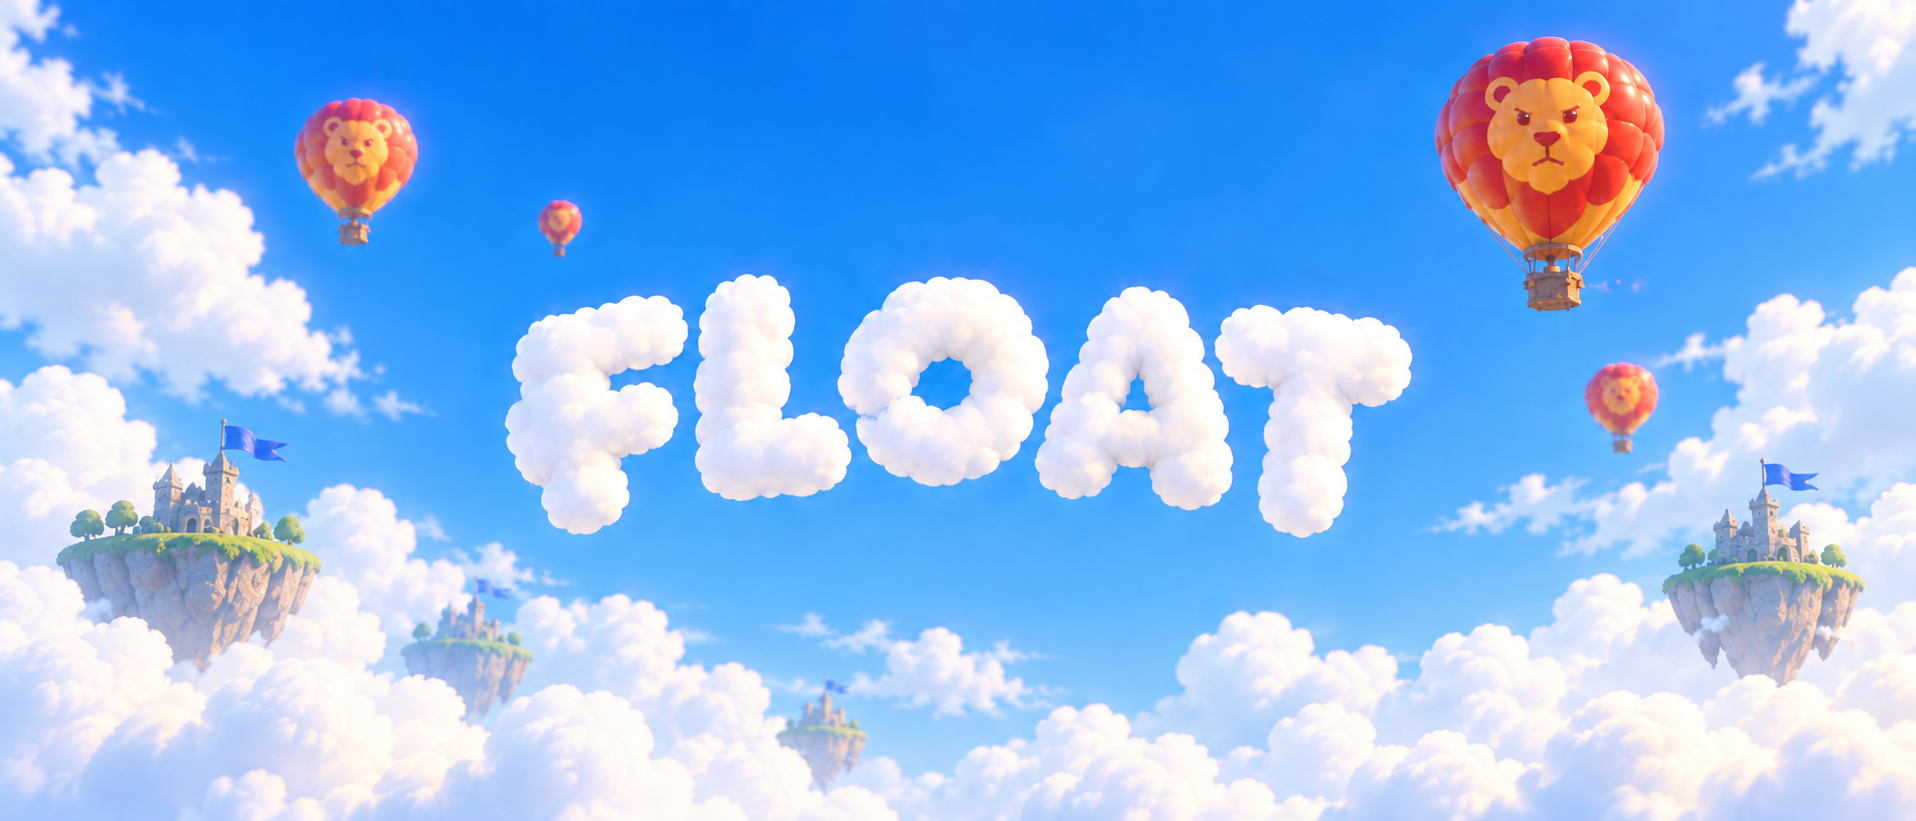
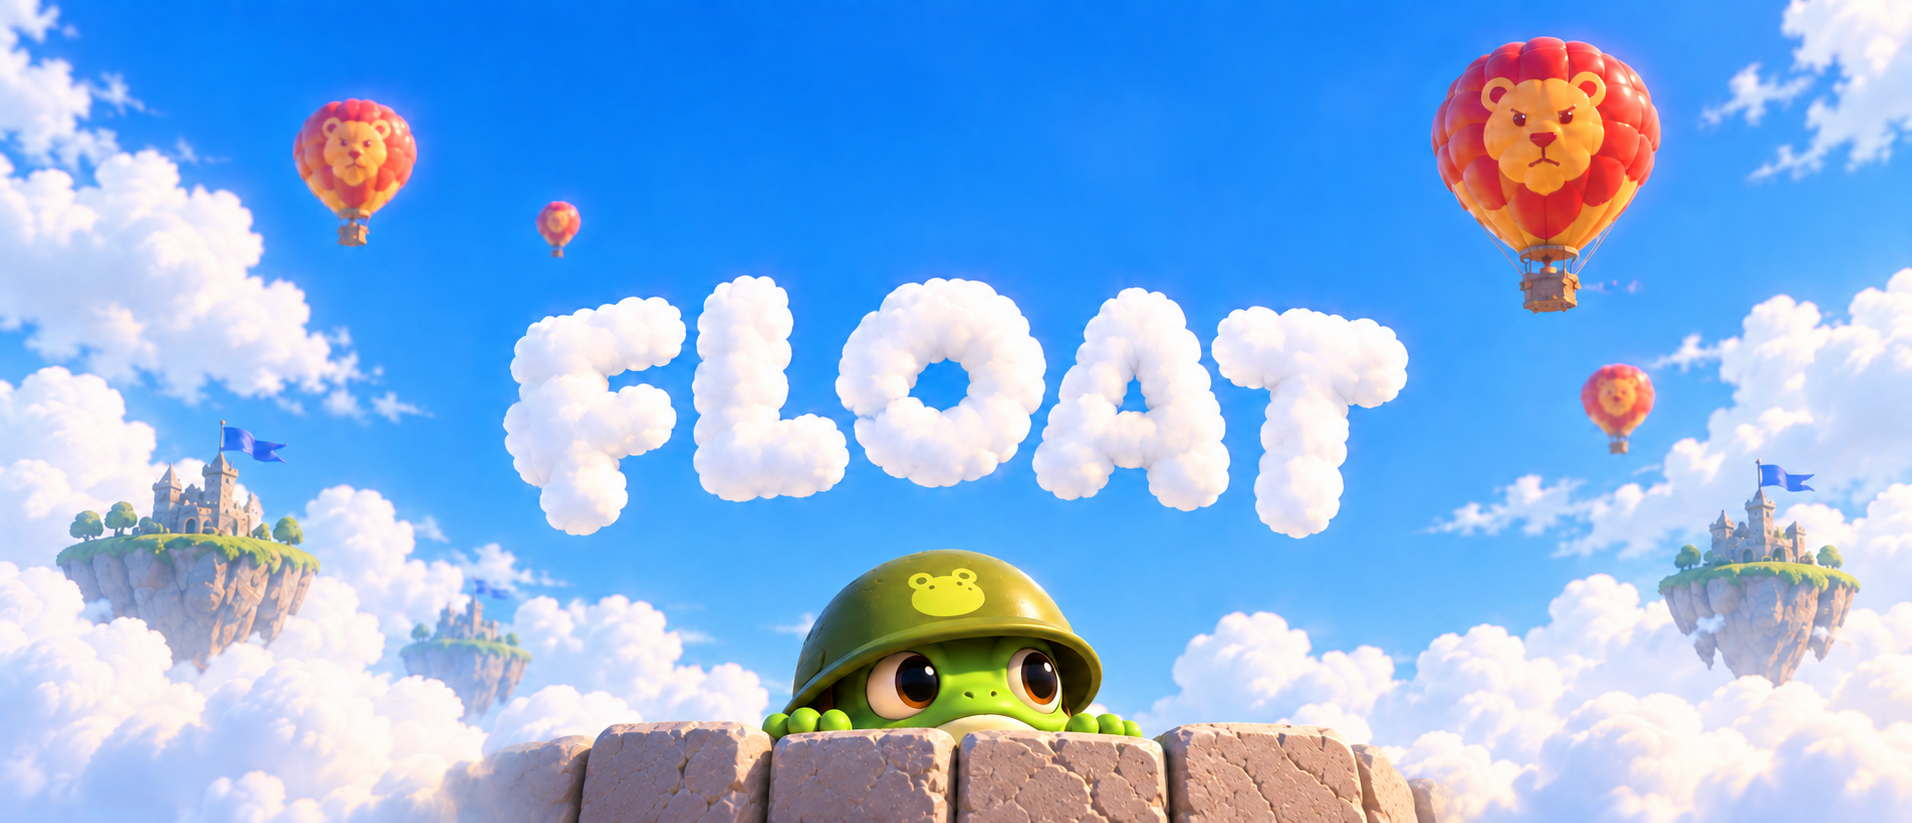
wall hero

diff --git a/components/home-portal.tsx b/components/home-portal.tsx
@@ -1,3 +1,4 @@
+import webHero from "@/public/images/hero/float-web-hero.png";
 import Image from "next/image";
 import Link from "next/link";
 import { ArtworkSlot } from "@/components/artwork-slot";
@@ -13,10 +14,10 @@ export function PortalHero() {
     <header className="sky-hero" aria-labelledby="portal-title">
       <h1 id="portal-title" className="sr-only">Float</h1>
       <Image
-        src="/images/hero/float-web-hero.png"
-        alt="Float written in clouds above floating castles, with red and gold lion balloons in a bright blue sky"
-        width={1916}
-        height={821}
+        src={webHero}
+        alt="Float written in clouds above a helmeted frog peeking over a stone wall, with floating castles and red and gold lion balloons in a bright blue sky"
+        width={1912}
+        height={823}
         sizes="100vw"
         preload
         className="sky-hero-image"
